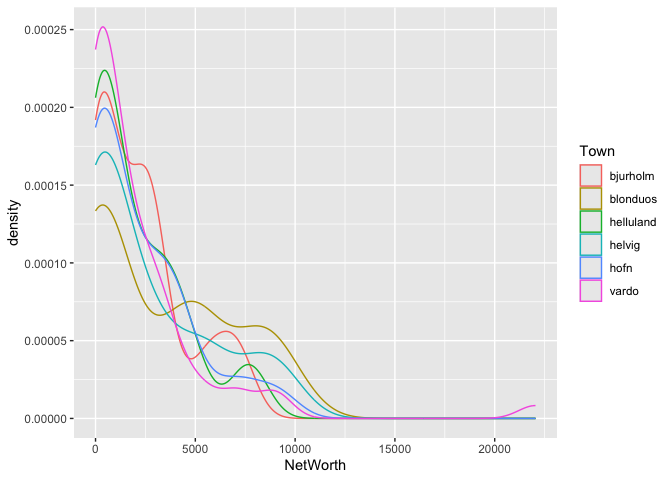
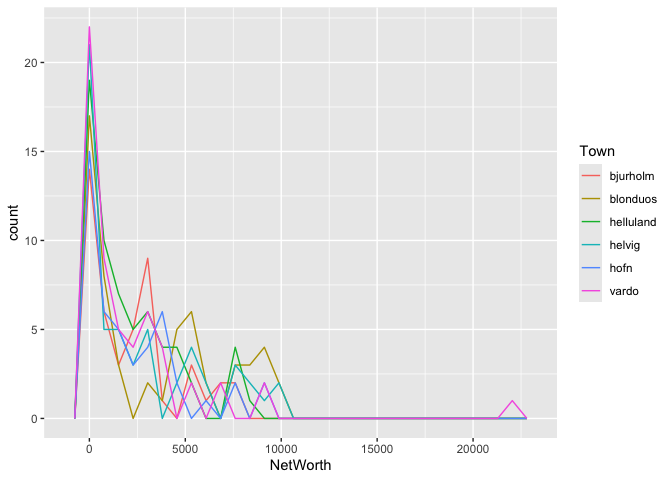
Address non-misc comment for c10

diff --git a/challenges/c10-islands-pt2-assignment-copy.md b/challenges/c10-islands-pt2-assignment-copy.md
@@ -388,8 +388,10 @@ the smaller sampling size.
 ``` r
 df |>
   ggplot(aes(x = NetWorth, color = Town)) +
-  geom_density()
+  geom_freqpoly()
 ```
+
+    ## `stat_bin()` using `bins = 30`. Pick better value with `binwidth`.
 
 ![](c10-islands-pt2-assignment-copy_files/figure-gfm/unnamed-chunk-3-1.png)<!-- -->
 
@@ -397,13 +399,15 @@ df |>
 df |>
   filter(Age >= 18) |>
   ggplot(aes(x = NetWorth, color = Town)) +
-  geom_density()
+  geom_freqpoly()
 ```
+
+    ## `stat_bin()` using `bins = 30`. Pick better value with `binwidth`.
 
 ![](c10-islands-pt2-assignment-copy_files/figure-gfm/unnamed-chunk-3-2.png)<!-- -->
 
 Continuing with our densities analysis, we can look at the spread of the
-distribution of wealth on each island. All curves show a strong right
+distribution of wealth on each island. All curves show a strong left
 skew, meaning most values cluster toward the lower end of net worth.
 Some towns have a noticeably broader spread in net worth (Blonduos,
 Vardo, Helvig), potentially indicating a more diverse population in
